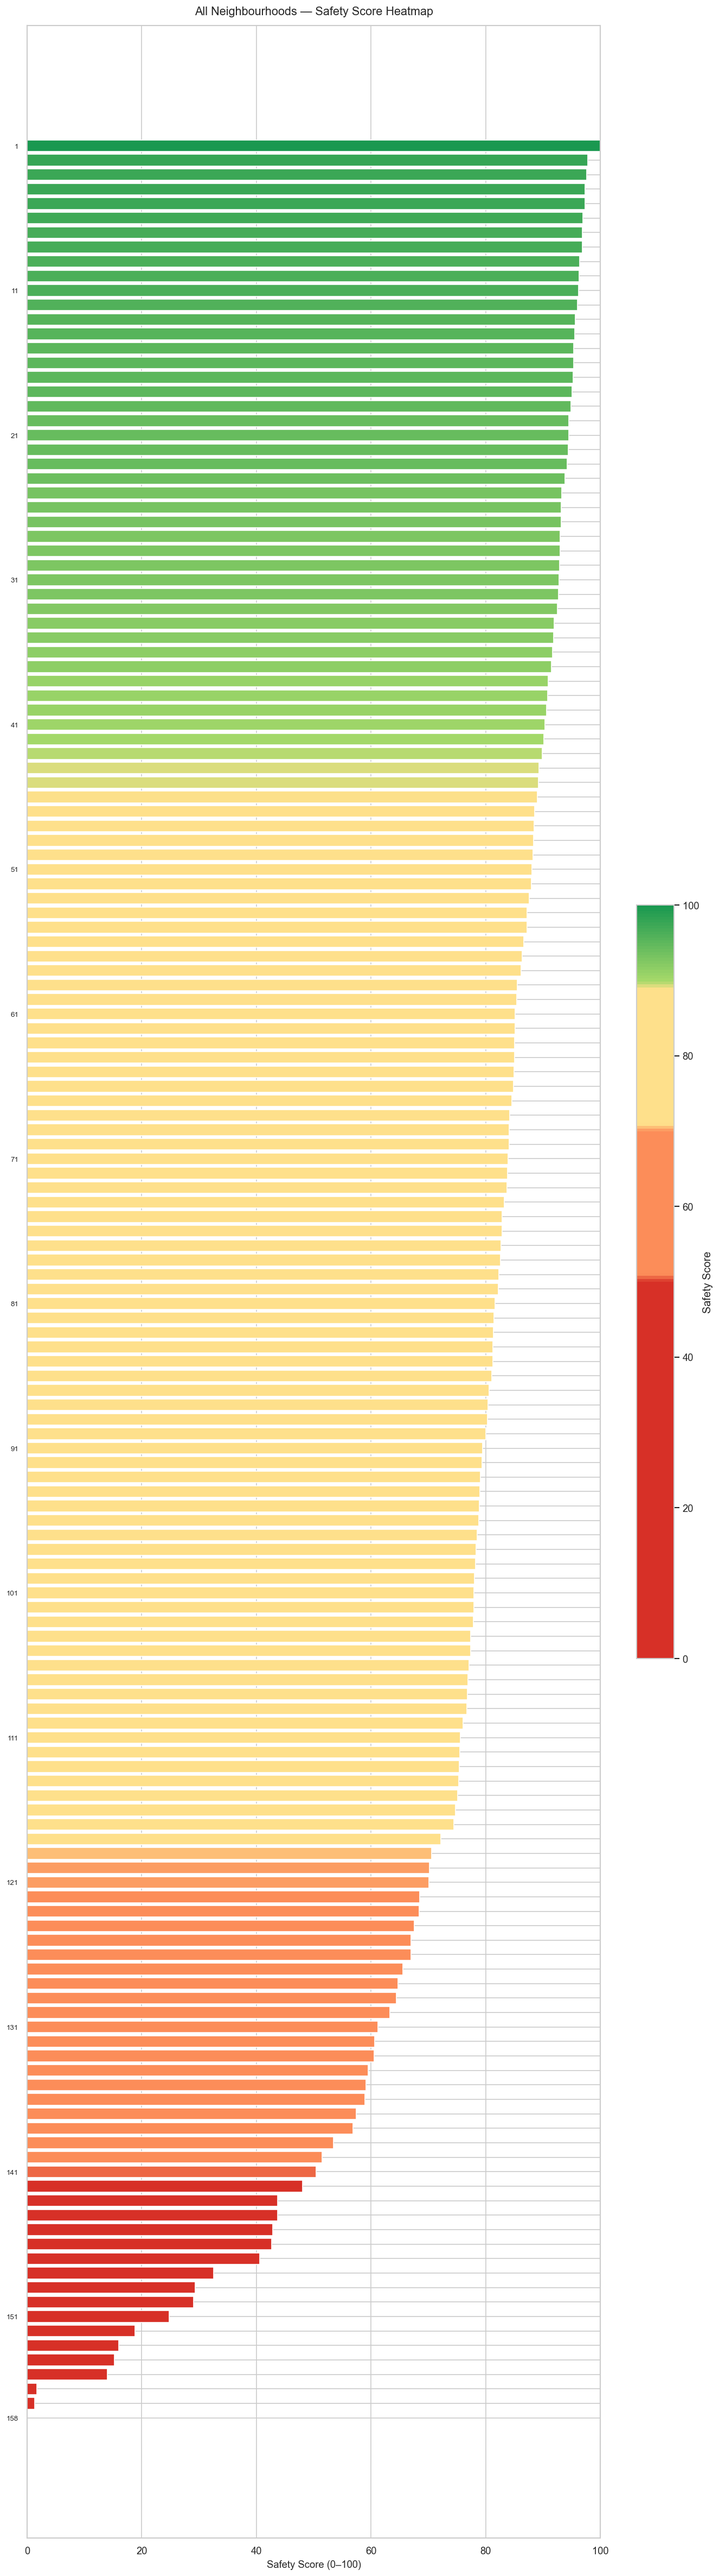
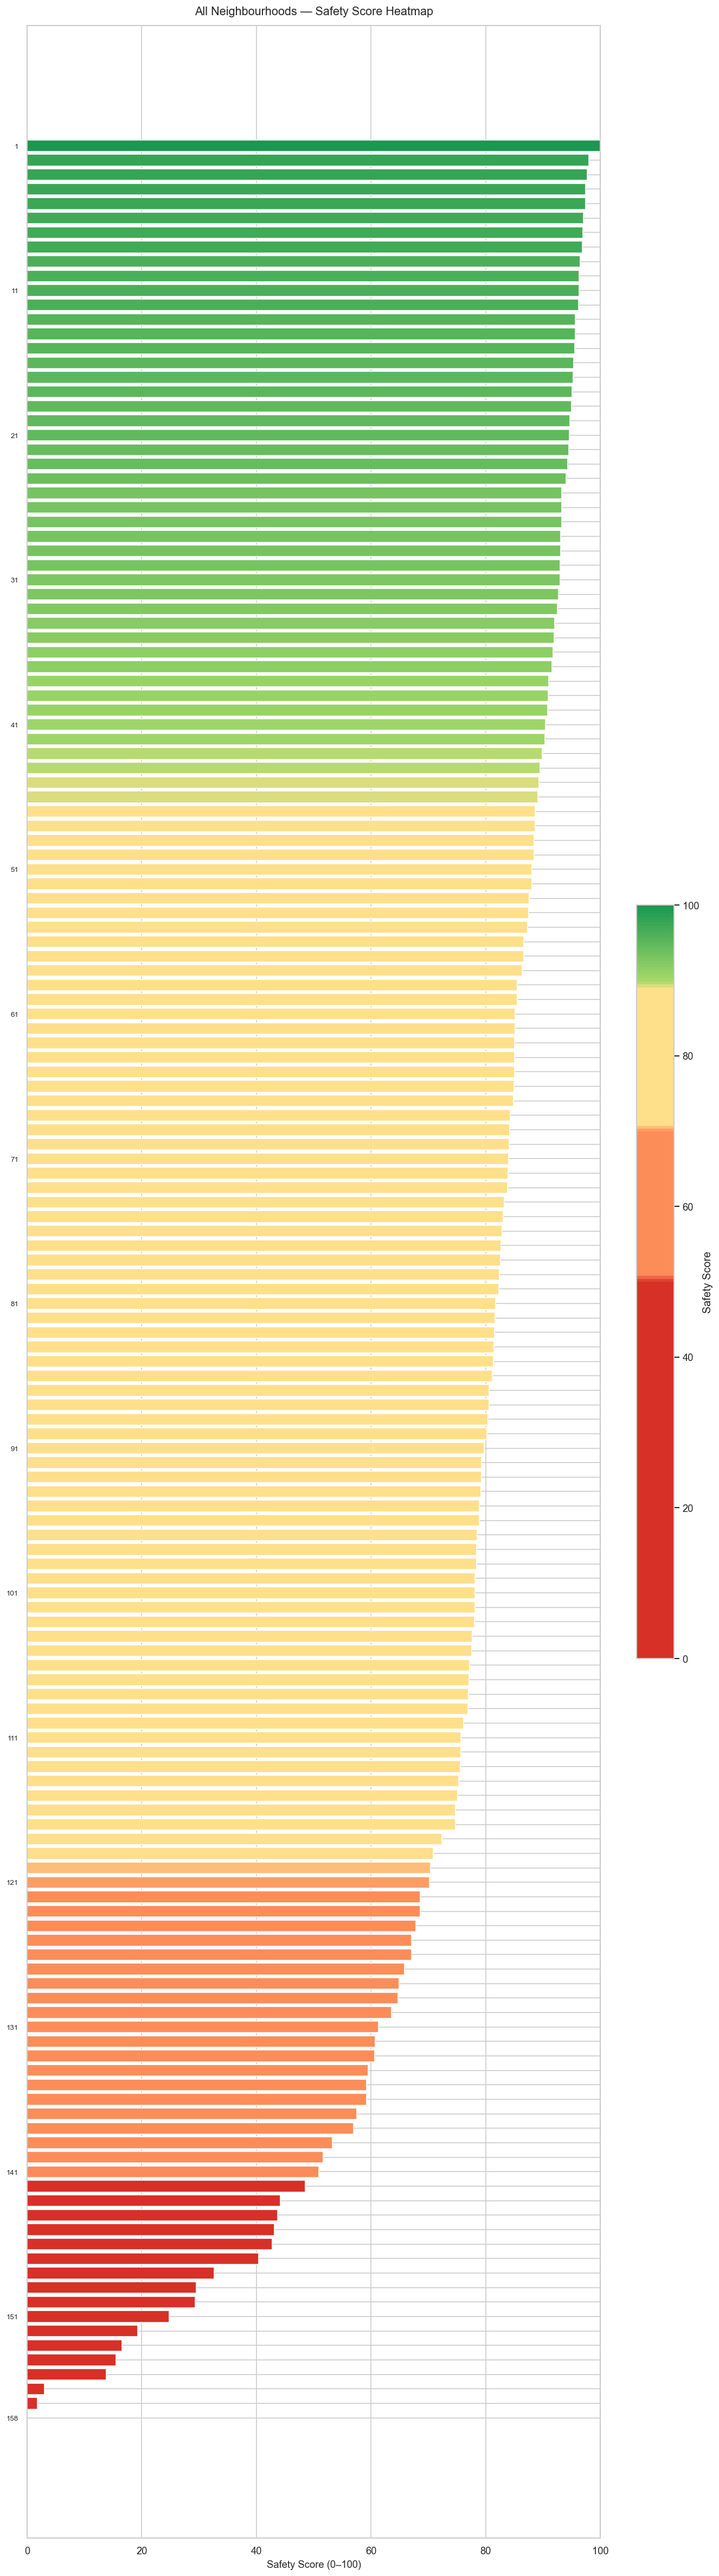
Changed offence weights

Changed region(s): [[0.0309, 0.2807, 0.7421, 0.3119], [0.0309, 0.7174, 0.6184, 0.7486], [0.371, 0.8421, 0.4329, 0.8733]]

diff --git a/project/open_consolidated_safety_score.py b/project/open_consolidated_safety_score.py
@@ -24,8 +24,8 @@ SEVERITY_WEIGHTS = {
     'Robbery' : 5,
     'Break and Enter' : 4,
     'Auto Theft': 3,
-    'NonMCI' : 2,
-    'Theft Over' : 1,
+    'Theft Over' : 2,
+    'NonMCI' : 1,
 }
 
 # Since cirmes will be geenralized if we are going by CSI numbers, we also need to consider the offence types.
@@ -61,43 +61,40 @@ OFFENCE_WEIGHTS = {
     'Assault - Force/Thrt/Impede'      : 0.60,
 
     # Robbery — firearm acquisition
-    'Robbery To Steal Firearm'         : 2.0,
+    'Robbery To Steal Firearm'         : 1.7,
     # Robbery — severe (invasion / carjacking / weapon)
     'Robbery - Home Invasion'          : 1.8,
-    'Robbery - Vehicle Jacking'        : 1.7,
-    'Robbery With Weapon'              : 1.6,
+    'Robbery - Vehicle Jacking'        : 1.4,
+    'Robbery With Weapon'              : 2.0,
     # Robbery — high (organised / institutional / group)
     'Robbery - Financial Institute'    : 1.4,
     'Robbery - Armoured Car'           : 1.4,
     'Robbery - Swarming'               : 1.4,
     # Robbery — medium (confrontational / targeted)
     'Robbery - Business'               : 1.2,
-    'Robbery - Mugging'                : 1.1,
-    'Robbery - Delivery Person'        : 1.1,
-    'Robbery - Taxi'                   : 1.0,
+    'Robbery - Mugging'                : 1.5,
+    'Robbery - Delivery Person'        : 1.2,
+    'Robbery - Taxi'                   : 1.5,
     'Robbery - Other'                  : 1.0,
     # Robbery — lower (opportunistic)
     'Robbery - Purse Snatch'           : 0.8,
     'Robbery - Atm'                    : 0.7,
 
     # Break and Enter
-    'B&E - To Steal Firearm'           : 2.0,
+    'B&E - To Steal Firearm'           : 1.7,
     'B&E - M/Veh To Steal Firearm'     : 1.7,
-    'B&E W\'Intent'                    : 1.1,
-    'Unlawfully In Dwelling-House'     : 0.8,
-    'B&E Out'                          : 0.6,
+    'B&E W\'Intent'                    : 1.2,
+    'Unlawfully In Dwelling-House'     : 1.0,
+    'B&E Out'                          : 1.0,
 
     # Theft Over
     'Theft From Motor Vehicle Over'    : 2.0,
     'Theft From Mail / Bag / Key'      : 1.3,
     'Theft Over - Distraction'         : 0.5,
     'Theft Over - Shoplifting'         : 0.6,
-    'Theft Over - Bicycle'             : 0.4,
-    'Theft - Misapprop Funds Over'     : 0.3,
-    'Theft Of Utilities Over'          : 0.3,
-
-    # NonMCI
-    'Theft From Motor Vehicle Under'   : 0.7,
+    'Theft Over - Bicycle'             : 1.0,
+    'Theft - Misapprop Funds Over'     : 1.2,
+    'Theft Of Utilities Over'          : 0.5,
 }
 DEFAULT_OFFENCE = 1.0
 
@@ -215,7 +212,7 @@ def fetch_crime_category_breakdown(conn) -> list[tuple[str, str, int]]:
 def export_category_breakdown(
     rows: list[tuple[str, str, int]],
     ranked: list[tuple[str, float]],
-    path: str = "Open_Consolidated_Data_Crime_Category_Breakdown.csv",
+    path: str = "DB_csv/Open_Consolidated_Data_Crime_Category_Breakdown.csv",
 ) -> None:
     categories = ['Assault', 'Auto Theft', 'Break and Enter', 'NonMCI', 'Robbery', 'Theft Over']
 
